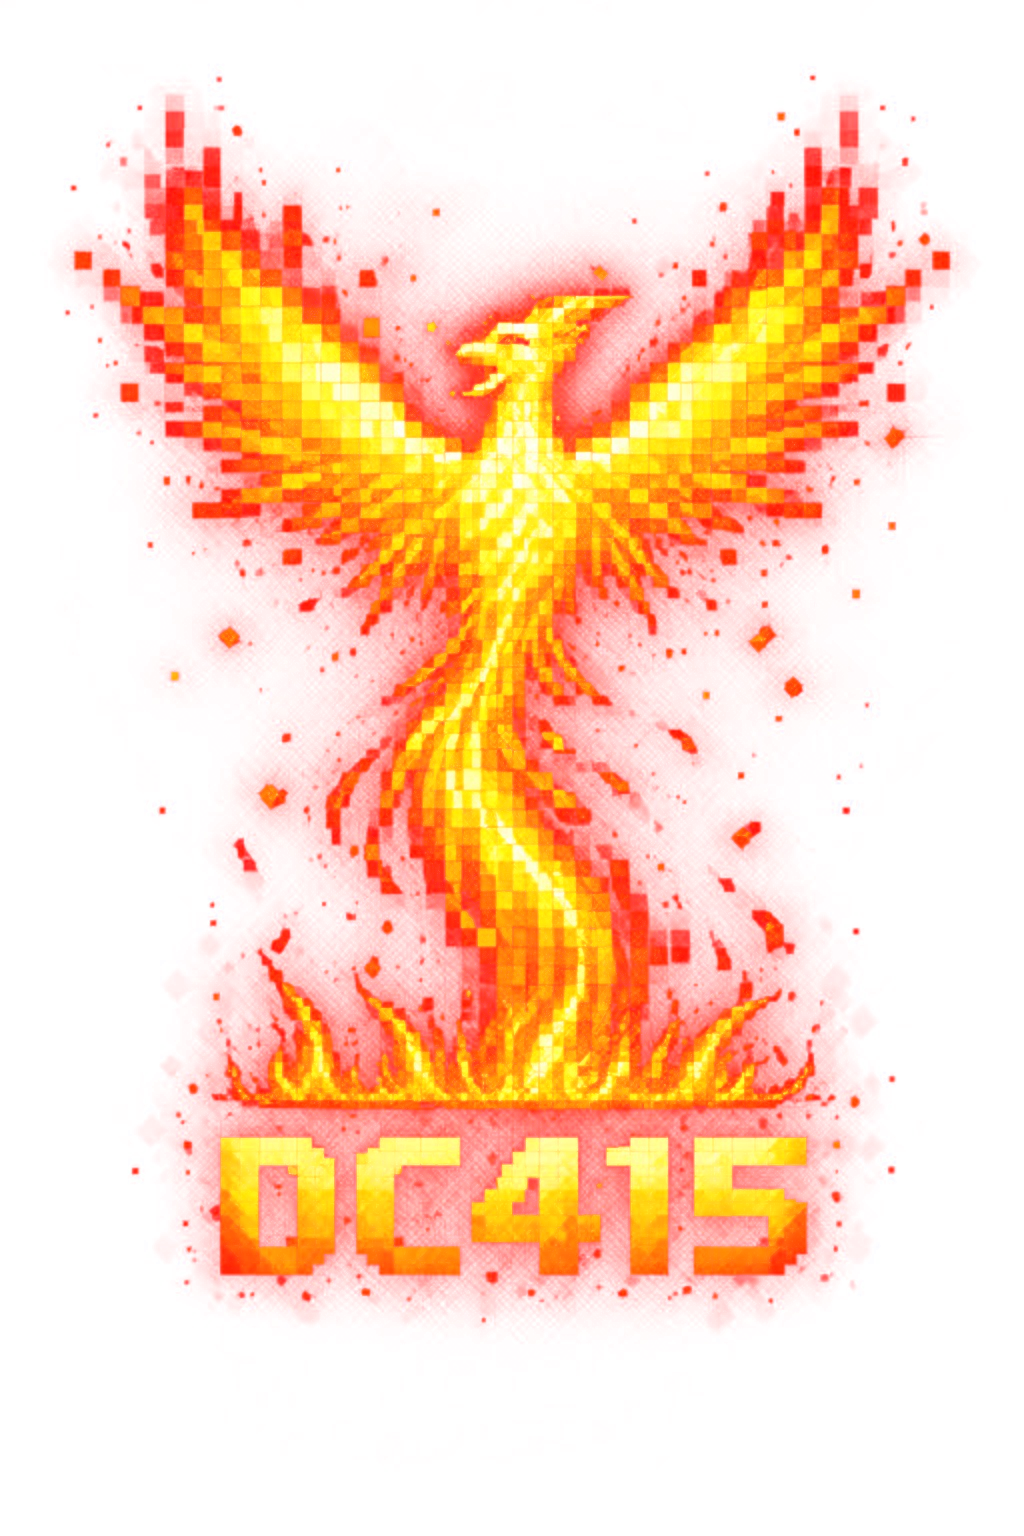
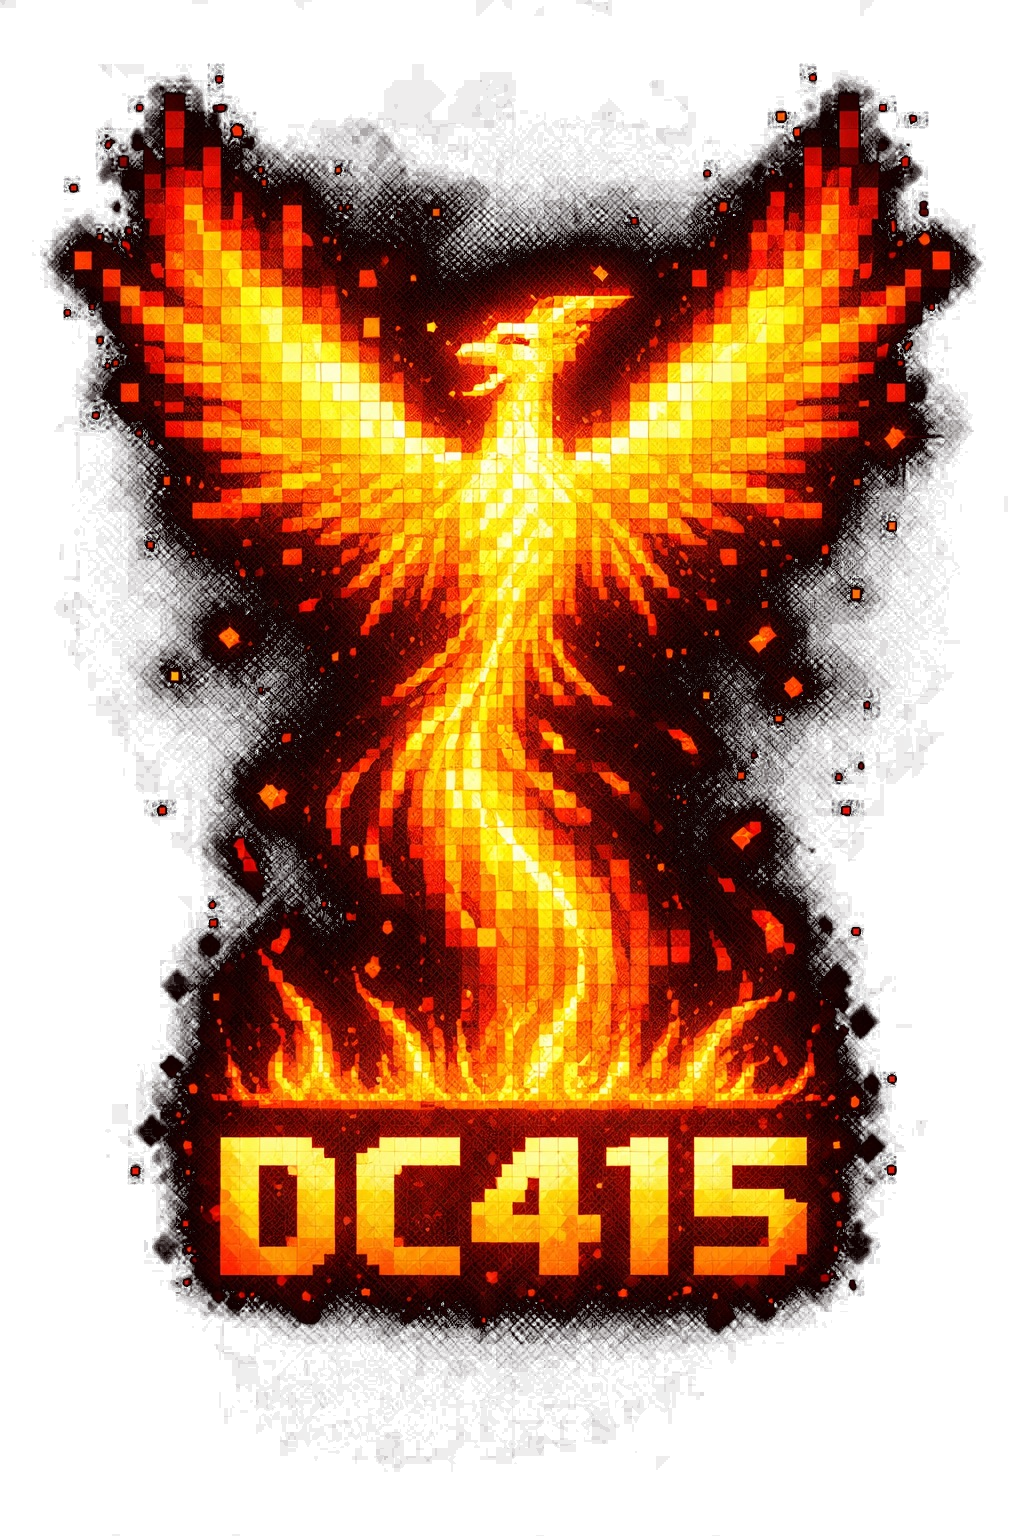
Added more images and better CSS to suit

diff --git a/index.html b/index.html
@@ -108,19 +108,22 @@
       100% { opacity: 1; }
     }
 
-    .phoenix-wrap {
-      position: relative;
-      width: min(380px, 80vw);
-      mix-blend-mode: screen;
-      mask-image: radial-gradient(circle, black 60%, transparent 100%);
-  -webkit-mask-image: radial-gradient(circle, black 60%, transparent 100%);
+    /* Container for the image assets */
+    .hacker-squad-wrap {
+        display: block;
+        margin: 2rem auto;
+        position: relative;
+        width: min(500px, 95vw); 
     }
 
-    .phoenix-wrap img {
-      width: 100%;
-      display: block;
-      filter: drop-shadow(0 0 32px rgba(200,60,0,0.6)) drop-shadow(0 0 80px rgba(200,60,0,0.25));
-      animation: phoenixPulse 4s ease-in-out infinite;
+    .hacker-squad-wrap img {
+        width: 100%;
+        display: block;
+        height: auto;
+        filter: 
+            drop-shadow(0 0 15px rgba(255, 120, 0, 0.65))
+            drop-shadow(0 0 45px rgba(255, 60, 0, 0.3));
+        animation: phoenixPulse 4s ease-in-out infinite;
     }
 
     @keyframes phoenixPulse {
@@ -423,7 +426,7 @@
   <!-- ══ SECTION 1: HERO ══════════════════════════════════ -->
   <section id="hero">
     <div class="hero-inner">
-      <div class="phoenix-wrap" style="background-color: #000000; padding: 20px;">
+      <div class="hacker-squad-wrap">
         <img src="Assets/pixel-phoenix-transparent.png" alt="DC415 Phoenix" />
       </div>
       <!-- <h1 class="hero-title">A Monthly Security Meetup in San Francisco</h1> -->
@@ -448,14 +451,19 @@
   <!-- ══ SECTION 2: WHEN ══════════════════════════════════ -->
   <section id="when">
     <div class="when-inner">
+      <div class="hacker-squad-wrap">
+        <img src="Assets/terminal-transparent.png" alt="DC415 Terminal" />
+      </div>
+      <br>
       <p class="section-eyebrow reveal">next_session.log</p>
       <h2 class="when-headline reveal reveal-delay-1">
         Every Second Thursday<br>
-        <span class="pipe">|</span>19:30<span class="pipe">|</span>
-        <a class="location-link" href="https://noisebridge.net" target="_blank" rel="noopener">NoiseBridge</a>
+        <span class="pipe">|</span>19:30<span class="pipe">|</span>@
+        <a class="location-link" href="https://noisebridge.net" target="_blank" rel="noopener">NoiseBridge</a><br>
+        <a class="location-link" href="https://www.meetup.com/noisebridge/events/313738742/" target="_blank" rel="noopener">Meetup</a>
       </h2>
       <p class="when-detail reveal reveal-delay-2">
-        2169 Mission St, San Francisco, CA 94110<span class="terminal-blink"></span>
+        272 Capp St, San Francisco, CA 94110<span class="terminal-blink"></span>
       </p>
     </div>
   </section>
@@ -465,6 +473,10 @@
   <!-- ══ SECTION 3: ABOUT ══════════════════════════════════ -->
   <section id="about">
     <div class="about-inner">
+      <div class="hacker-squad-wrap">
+        <img src="Assets/pixel-pcb-transparent.png" alt="DC415 PCB" />
+      </div>
+      <br><br>
       <div class="section-header reveal">
         <span class="section-title">// About Us</span>
         <div class="line"></div>
@@ -488,6 +500,9 @@
   <!-- ══ SECTION 4: CONTACT ════════════════════════════════ -->
   <section id="contact">
     <div class="contact-inner">
+      <div class="hacker-squad-wrap">
+        <img src="Assets/hacker-squad-transparent.png" alt="DC415 Hacker Squad" />
+      </div>
       <div class="section-header reveal" style="justify-content:center;">
         <div class="line" style="background: linear-gradient(to left, var(--red-dim), transparent);"></div>
         <span class="section-title">// Contact</span>
